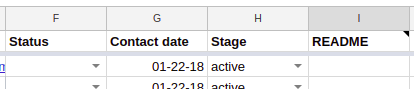
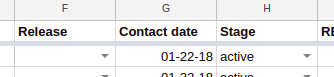
General cleanup and codebase tweaks

diff --git a/README.md b/README.md
@@ -6,9 +6,9 @@ A small set of Google App Scripts designed to automate prospect and lead managem
 
 Currently, the feature set is relatively simple but I'm open to suggestions/ideas for further expansion (initially within the scope of the spreadsheet itself).
 
-- *kanban board*\*: an automated updater that moves leads to different sheets based on their stage in prospecting
-- *contact updates*\*: logic to look for new launches and leads who are due for an email update
-- *Todoist reminder*: creates a Todoist task based on the token and project ID/label IDs you provide
+- **kanban board**\*: an automated updater that moves leads to different sheets based on their stage in prospecting
+- **contact updates**\*: logic to look for new launches and leads who are due for an email update
+- **Todoist reminder**: creates a Todoist task based on the token and project ID/label IDs you provide
 
 \* These are somewhat inflexible as they are still connected to the layout of my prospect columns but I'm working to make this more general/flexible.
 
@@ -18,12 +18,12 @@ Your spreadsheet will need six tabs: "settings", "leads", "active", "signup", "d
 
 ![Example tabs in the spreadsheet](https://github.com/forstmeier/tiny-crm/blob/master/img/tiny-crm-example-tabs.png)
 
-The "settings" tab will need the A1:B3 range filled in with the information in the image below. "Status" should be a dropdown with "none", "alpha", "beta", and "release" options while "Status date" could be a calendar dropdown.
+The "settings" tab will need the A1:B3 range filled in with the information in the image below. "Release" should be a dropdown with "none", "alpha", "beta", and "production" options while "Release date" could be a calendar dropdown.
 
 ![Example settings page](https://github.com/forstmeier/tiny-crm/blob/master/img/tiny-crm-example-settings.png)
 
 My spreadsheet currently has 8 columns, a frozen top row with column names and a README note box (making 9 columns across the top). The last three columns of data should be (in this order):
-- "*Status*": contains cells with dropdowns with "alpha", "beta", and "release" options
+- "*Release*": contains cells with dropdowns with "alpha", "beta", and "production" options
 - "*Contact date*": contains cells with clickable dropdown calendar
 - "*Stage*": contains cells with dropdowns with "active", "signup", "decline", and "storage" options
 
@@ -42,7 +42,7 @@ function updateTrigger() {
 
 ## Usage
 
-Move various leads (rows) around the spreadsheet by selection different values from the "Stage" column dropdown. As you communicate with users/potential users, set their release type in the "Status" column dropdown and update your last message date in the "Contact date" calendar.
+Move various leads (rows) around the spreadsheet by selection different values from the "Stage" column dropdown. As you communicate with users/potential users, set their release type in the "Release" column dropdown and update your last message date in the "Contact date" calendar.
 
 ## Project status
 
@@ -52,11 +52,11 @@ Move various leads (rows) around the spreadsheet by selection different values f
 - [X] release announcement checker for signed up users
 - [X] Todoist task creator from due leads to contact
 - [ ] automatically set status date based on GitHub tags (research this more)
-- [ ] set spreadsheet status via information in GitHub tags/commits (research this more)
-- [ ] change lead status based on incoming webhooks (e.g. a signup notification)
+- [ ] set spreadsheet release via information in GitHub tags/commits (research this more)
+- [ ] change lead release based on incoming webhooks (e.g. a signup notification)
 
 ### Improvements
 - [ ] helper function to automatically identify project and label IDs for the user
 - [ ] allow users to set which columns are included in Todoist comment contents
 
-PRs are always welcome! :beers:
+**PRs and comments are always welcome!** :beers:
